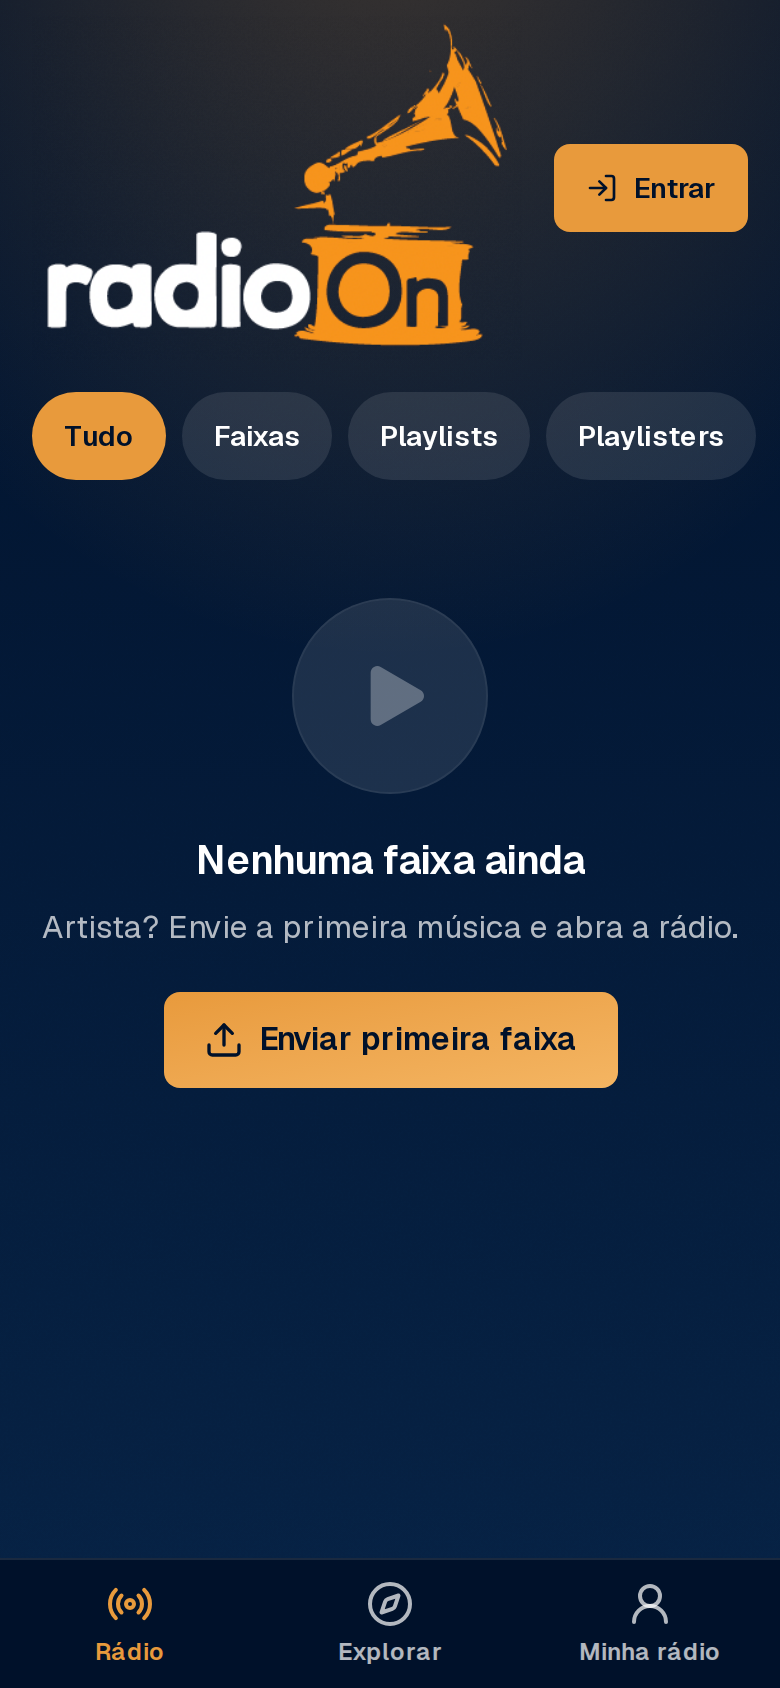
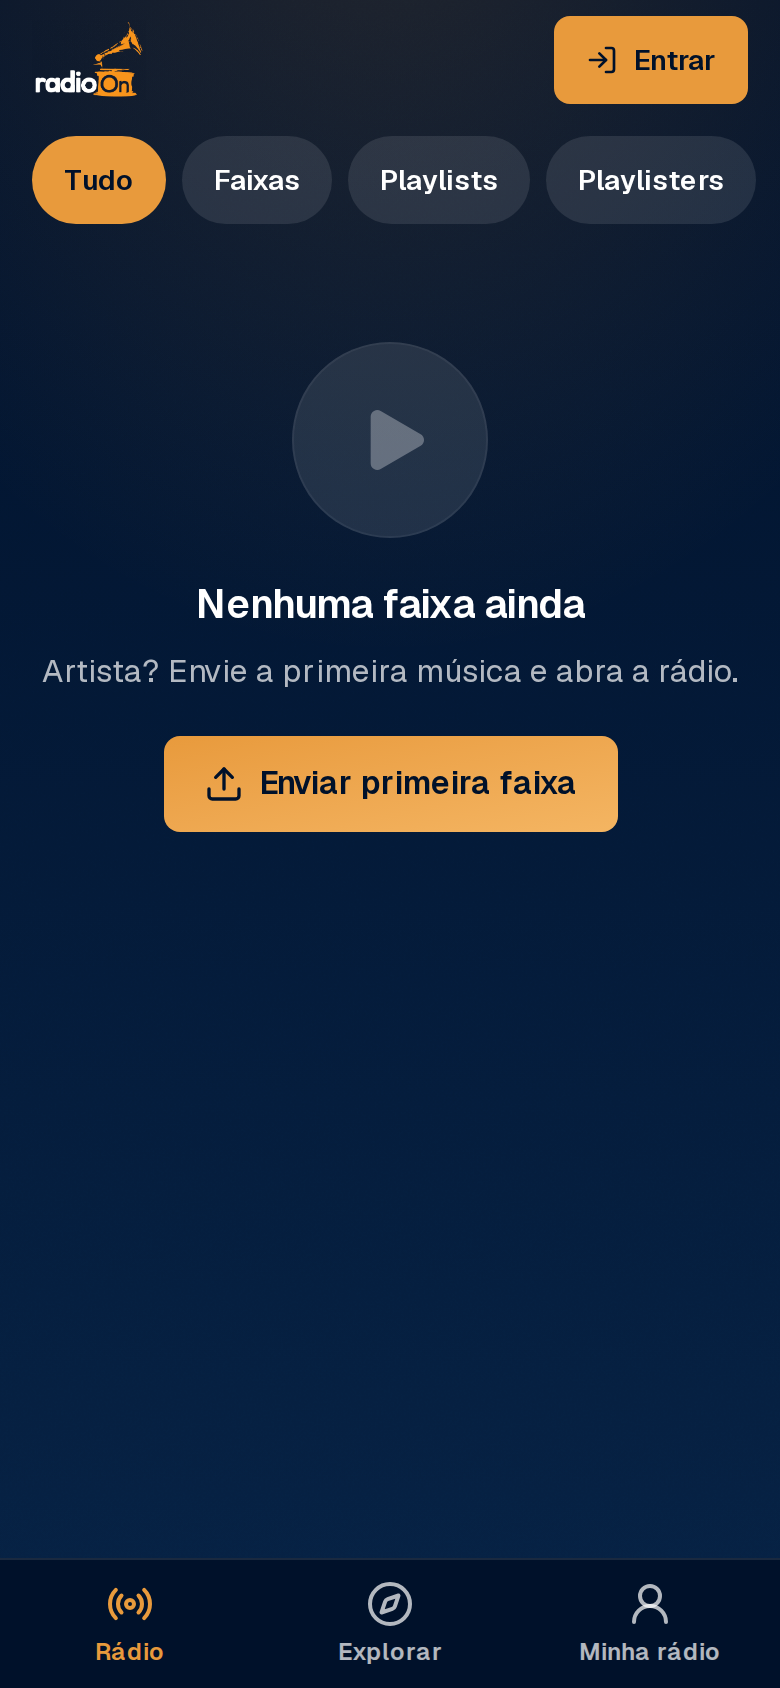
docs: relatório do redesenho mobile, CONTEXTO e prints (redesenho 3/3)

diff --git a/components/logo-cabecalho.tsx b/components/logo-cabecalho.tsx
@@ -6,7 +6,7 @@ import { Logo } from "@/components/logo";
 export function LogoCabecalho() {
   return (
     <Link href="/" aria-label="radioOn, início" className="inline-flex min-h-11 items-center rounded">
-      <Logo className="h-10" />
+      <Logo className="h-12" />
     </Link>
   );
 }

diff --git a/docs/reports/2026-11-10-redesenho-mobile.md b/docs/reports/2026-11-10-redesenho-mobile.md
@@ -1,0 +1,65 @@
+# Relatório 2026-11-10 — Redesenho mobile-first do radioOn
+
+Dois PRs mergeados pelo gate e em produção: **#42** (identidade) e **#43** (Rádio, player,
+envio e Minha rádio). Produção conferida: `/api/health` com o commit do #43, `/` e `/explorar`
+em 200, migration `20261110000000` aplicada (workflow `migracao` verde).
+
+## Atenção: as duas referências
+- `Captura de Tela … 23.25.14.png` = **cartão da marca** (gramofone + "Música para os melhores
+  ouvintes."). Foi para `public/brand/cartao-marca.png`.
+- `WhatsApp Image … 23.02.58.jpeg` **não é o site de 2012**: é um print do **Audius** (aba
+  Trending). Guardei em `public/brand/referencia-audius.jpeg` (não em `radioon-2012`, para não
+  rotular errado) e usei só como referência de densidade de lista. **Se quiser a inspiração de
+  2012, envie a captura certa**; notas do playlister e ficha técnica seguiram o texto do pedido.
+- As imagens da raiz entraram na `main` pelo seu PR #41; as cópias da raiz foram removidas.
+
+## Entregue (itens do pedido)
+| # | Item | Onde |
+|---|---|---|
+| 1 | Paleta marinho `#00112A` + âmbar `#E89A3C`; texto sobre âmbar escuro | `app/globals.css`, DESIGN.md |
+| 2 | Gramofone recortado com fundo transparente: cabeçalho, ícone do app, abertura | `public/brand/`, `app/icon.png`, `components/abertura.tsx` |
+| 3 | Frase "Música para os melhores ouvintes." em login e onboarding | `components/frase.tsx` |
+| 4 | Grão sutil + fundo ambiente na cor da faixa atual | `body::before/::after`, `--ambiente` |
+| 5 | Navegação inferior: Rádio, Explorar, Minha rádio | `components/nav-inferior.tsx` |
+| 6 | Rádio: filtros, cartão No ar, grade 2×2, abas Descobertas/Em alta/Novidades, Playlisters em alta, Playlists da semana | `app/page.tsx`, `lib/radio/` |
+| 7 | "No ar · N ouvindo" (usuários distintos com heartbeat nos últimos 3 min) | `lib/radio/queries.ts` |
+| 8 | Programação por horário (curador cria em /curador); No ar mostra atual e próximo | `programs`, `app/curador/` |
+| 9 | Mini player fixo e persistente | `components/player-provider.tsx`, `mini-player.tsx` |
+| 10 | Player cheio: vinil girando, onda de progresso, curtir, salvar, apoiar, compartilhar | `components/player-cheio.tsx` |
+| 11 | Notas do playlister e ficha técnica expansível | player cheio, `/curador` |
+| 12 | Envio com capa opcional (B2) e ficha opcional; sem capa, arte gerada do título | `components/upload-form.tsx`, `/api/tracks/[id]/capa` |
+| 13 | Minha rádio (meta diária, escutas, minutos, descobertas; artista: faixas e Enviar) | `app/minha-radio/` (`/metricas` e `/pontos` redirecionam) |
+| 14 | Todas as variáveis de ambiente lidas com trim | `lib/env.ts` |
+| 15 | E-mails de confirmação e magic link em pt-BR | `docs/emails-autenticacao.md` |
+| 16 | "Faixa bônus desbloqueada com pontos" como proposta | `docs/PLANO.md` (aguarda seu "aprovado") |
+
+Decisões 33–40 em `docs/DECISIONS.md`; `DESIGN.md` e `PRODUCT.md` reescritos.
+
+## Prints (produção, 390×844, catálogo ainda vazio)
+O banco de produção não tem faixas publicadas, então o cartão No ar, as listas, o mini player e
+o player cheio **não aparecem nos prints** (e o E2E "com faixas" é pulado na prévia). Foram
+verificados por tipos, build e testes unitários, não visualmente. Depois da primeira faixa,
+vale conferir esses fluxos no celular.
+
+![Rádio](img/radio-vazia.png)
+![Explorar](img/explorar-vazio.png)
+![Login](img/login.png)
+![Minha rádio sem login](img/minha-radio-login.png)
+
+## Testes
+- Unitários: 57 (ranking/tendência, descobertas, programação, "ouvindo", capa gerada, minha rádio,
+  upload com capa e ficha, trim de env, validação de programa e nota).
+- E2E (Playwright, viewport de celular): navegação de 3 abas, filtros, estado vazio, redirects de
+  Minha rádio, frase da marca, 404 de faixa, rotas novas de API, manifesto e logo.
+
+## Pendências e riscos
+1. **Sem teste contra o banco:** policies de `track_reactions`/`programs` e as consultas da Rádio
+   foram revisadas só por leitura. Faça uma escuta, um curtir e um bloco de programação logado.
+2. **Cota do B2:** capas passam por redirect com cache de 15 min; ainda assim cada capa nova é um
+   download. Se a cota apertar, desligue capas (basta não enviar) ou reduza para 1 h de cache.
+3. **"Apoiar"** é só um gesto gratuito (reação), sem pagamento (regra 6).
+4. "Em alta" e "N ouvindo" leem até 20 000 / 2 000 linhas com service_role a cada visita da Rádio;
+   com muito tráfego, vale mover para uma view/cache (propor depois).
+5. O limite de `listen_events` (heartbeat exige login) faz o "N ouvindo" contar só logados.
+6. Seu Supabase Auth ainda precisa dos textos de `docs/emails-autenticacao.md` colados nos
+   modelos (Confirm signup e Magic Link), e da Redirect URL do callback (pendência antiga).

diff --git a/docs/CONTEXTO.md b/docs/CONTEXTO.md
@@ -10,6 +10,8 @@ próximo item livre da fila e executar. Atualizar ao fim de cada item (via PR).
 - **Banco:** Supabase `radioon` (us-west-2), 6 tabelas com RLS (`profiles`, `tracks`,
   `playlists`, `playlist_tracks`, `listen_events`, `points_ledger`); migration
   `20261105000000` aplicada; `supabase link` confirmado no Codespace.
+- **Redesenho mobile-first** em produção desde 2026-11-10 (r1–r2): Rádio/Explorar/Minha rádio,
+  player global; migration `20261110000000` aplicada.
 - **CI verde** na `main`. Modo autônomo configurado em 2026-11-05 (ver abaixo).
 
 ## Fila
@@ -106,6 +108,17 @@ Os itens do pedido eram "g–j", mas g)/f) já existiam acima; aqui levam sufixo
   `lib/storage/messages.ts` (erros do envio, 403/429 do bucket = limite diário), vazios em
   `/pontos`, `/metricas`, `/curador`, `/playlist`, `app/not-found.tsx` e `app/error.tsx` em pt-BR.
   Obs.: erro de rede no PUT ao B2 pode ser cota (sem CORS na resposta); a mensagem diz isso.
+
+### Redesenho mobile-first (pedido do Julio em 2026-11-10; instrução extra da execução)
+
+- [x] **r1) Identidade** (marinho/âmbar, gramofone, abertura, grão, frase, env com trim, e-mails em
+  `docs/emails-autenticacao.md`, proposta "faixa bônus" no PLANO.md) — concluído em 2026-11-10 (PR #42).
+- [x] **r2) Rádio, Explorar, Minha rádio, player global, envio com capa/ficha, curador com notas e
+  programação** — concluído em 2026-11-10 (PR #43; migration aditiva `20261110000000`).
+  Pendências: policies/consultas novas só revisadas por leitura (sem credencial de banco); catálogo
+  de produção vazio, então listas e player cheio não foram vistos com dados; o `.jpeg` do pedido era
+  um print do Audius, não o site de 2012 (ver relatório 2026-11-10-redesenho-mobile.md).
+- [x] **r3) DESIGN.md/PRODUCT.md, DECISIONS 33–40, relatório e prints** — esta execução.
 
 ### Fase proposta: Descoberta e curadoria (Fase 1 do `docs/PLANO.md`)
 
